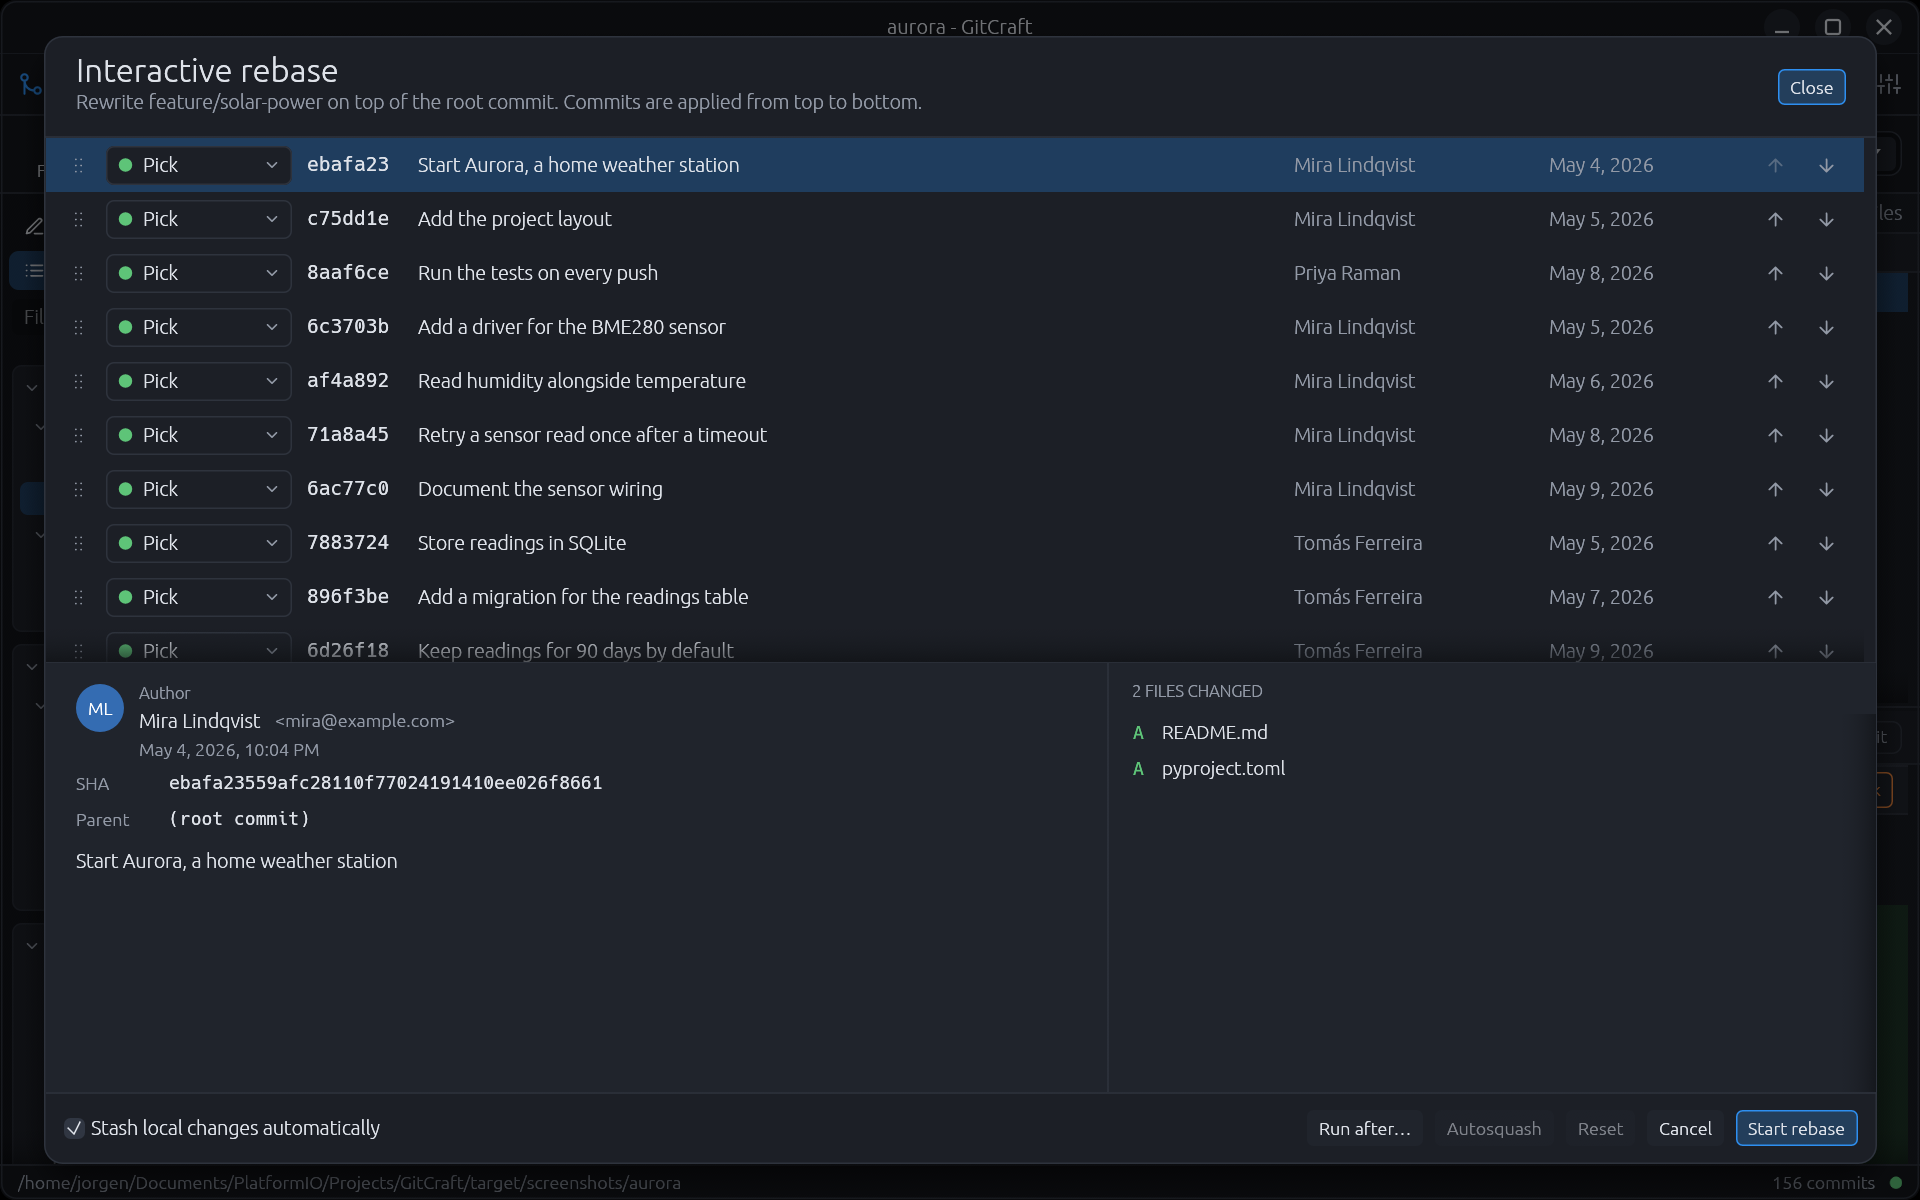
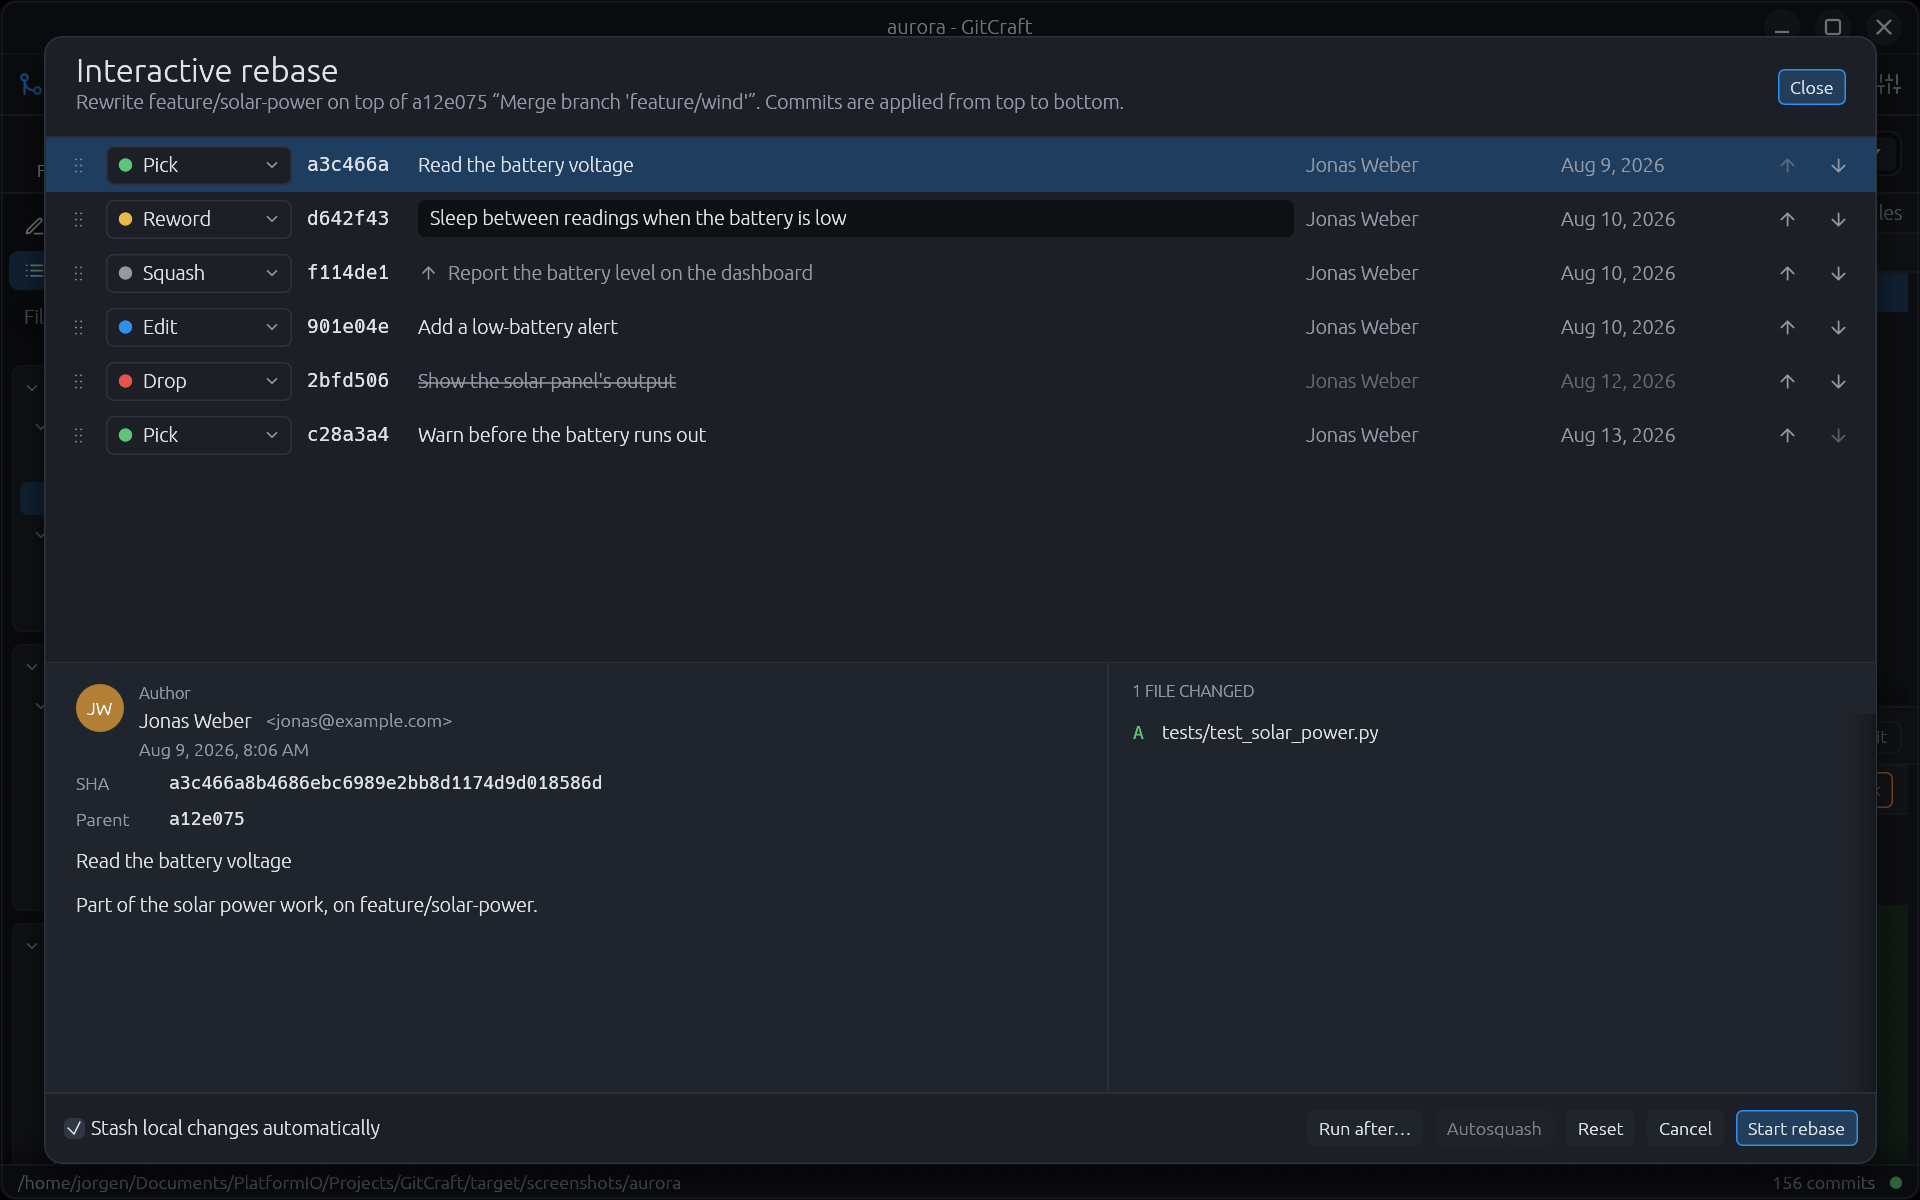
Add a script that takes the README screenshots
The interactive rebase picture had lost its mix of actions when it was taken
again, because it was set up by hand the first time. take-screenshots.py now
rebuilds the demo repository for each picture and starts GitCraft with the
theme, dialog and rebase plan that picture needs, so a rerun before a release
gives the same pictures. GITCRAFT_SHOT_REBASE_BASE and
GITCRAFT_SHOT_REBASE_ACTIONS let the shot mode set up the rebase editor.

diff --git a/docs/screenshots/take-screenshots.py b/docs/screenshots/take-screenshots.py
@@ -1,0 +1,175 @@
+#!/usr/bin/env python3
+"""Takes the README screenshots again, the same way every time.
+
+For each picture it builds Aurora afresh (make-demo-repo.py), starts GitCraft on it with a
+settings folder of its own, opens what the picture shows (GITCRAFT_SHOT_OPEN) and lets the app
+save its window (GITCRAFT_SHOT). The pictures land in docs/screenshots/.
+
+    python3 docs/screenshots/take-screenshots.py                  # build, then take them all
+    python3 docs/screenshots/take-screenshots.py history-dark     # only these
+    python3 docs/screenshots/take-screenshots.py --no-build --out /tmp/shots
+    python3 docs/screenshots/take-screenshots.py --list
+
+When the README gets a new picture, add it to SHOTS below (and GITCRAFT_SHOT_OPEN in gui.rs if
+it needs something opened), so the next run takes it the same way.
+
+The window opens at its default size (1280 x 800). The README's pictures are 1920 x 1200, so
+take them on a screen scaled to 150 %; the script warns when a picture comes out another size.
+Pillow, if installed, saves them as RGB without the alpha channel, which keeps them smaller.
+"""
+
+import argparse
+import os
+import shutil
+import subprocess
+import sys
+import struct
+
+ROOT = os.path.dirname(os.path.dirname(os.path.dirname(os.path.abspath(__file__))))
+HERE = os.path.join(ROOT, "docs", "screenshots")
+WORK = os.path.join(ROOT, "target", "screenshots")
+REPO = os.path.join(WORK, "aurora")
+EXPECTED_SIZE = (1920, 1200)
+
+# name: the file in docs/screenshots (without .png)
+# theme: "dark" or "light"
+# open: GITCRAFT_SHOT_OPEN, or None for the history as it opens
+# env: more environment for the app; "{base}" becomes the commit feature/solar-power started from
+SHOTS = [
+    {"name": "history-dark", "theme": "dark", "open": None},
+    {"name": "history-light", "theme": "light", "open": None},
+    {"name": "local-changes", "theme": "light", "open": "changes"},
+    {
+        "name": "interactive-rebase",
+        "theme": "dark",
+        "open": "rebase",
+        "env": {
+            # The six commits of feature/solar-power, with one of each action.
+            "GITCRAFT_SHOT_REBASE_BASE": "{base}",
+            "GITCRAFT_SHOT_REBASE_ACTIONS": "pick,reword,squash,edit,drop,pick",
+        },
+    },
+    {"name": "commit-menu", "theme": "dark", "open": "branch-menu"},
+    {"name": "settings", "theme": "dark", "open": "settings"},
+]
+
+
+def run(*args, **kwargs):
+    return subprocess.run(args, check=True, **kwargs)
+
+
+def git(*args):
+    return run("git", "-C", REPO, *args, capture_output=True, text=True).stdout.strip()
+
+
+def build():
+    print("Building the release binary …")
+    run("cargo", "build", "--release", "-p", "gitcraft-ui", cwd=ROOT)
+
+
+def binary():
+    name = "gitcraft.exe" if os.name == "nt" else "gitcraft"
+    path = os.path.join(ROOT, "target", "release", name)
+    if not os.path.exists(path):
+        sys.exit(f"{path} is missing: run without --no-build first.")
+    return path
+
+
+def make_repo():
+    run(sys.executable, os.path.join(HERE, "make-demo-repo.py"), REPO,
+        stdout=subprocess.DEVNULL)
+
+
+def png_size(path):
+    with open(path, "rb") as file:
+        head = file.read(24)
+    return struct.unpack(">II", head[16:24])
+
+
+def save(picture, target):
+    """Copies the picture into place, as RGB when Pillow is there."""
+    try:
+        from PIL import Image
+    except ImportError:
+        shutil.copyfile(picture, target)
+        return
+    Image.open(picture).convert("RGB").save(target, optimize=True)
+
+
+def take(shot, app, out):
+    make_repo()
+    base = git("merge-base", "HEAD", "main")
+    config = os.path.join(WORK, "config", shot["name"])
+    shutil.rmtree(config, ignore_errors=True)
+    os.makedirs(config)
+    with open(os.path.join(config, "config.toml"), "w", encoding="utf-8") as file:
+        file.write(f'[general]\nlanguage = "auto"\n\n[appearance]\ntheme = "{shot["theme"]}"\n')
+    raw = os.path.join(WORK, f"{shot['name']}.raw.png")
+    if os.path.exists(raw):
+        os.remove(raw)
+    env = dict(os.environ)
+    # Settings from the caller's shell must not change the pictures.
+    for name in ("GITCRAFT_SHOT_OPEN", "GITCRAFT_SHOT_REBASE_BASE",
+                 "GITCRAFT_SHOT_REBASE_ACTIONS", "GITCRAFT_SYSTEM_FRAME", "CRAFT_TITLEBAR"):
+        env.pop(name, None)
+    env.update({
+        "GITCRAFT_CONFIG_DIR": config,
+        "GITCRAFT_SHOT": raw,
+        "GITCRAFT_TITLEBAR": "app",
+        "LANG": "en_US.UTF-8",
+        "LC_ALL": "en_US.UTF-8",
+        "LANGUAGE": "en",
+    })
+    if shot.get("open"):
+        env["GITCRAFT_SHOT_OPEN"] = shot["open"]
+    for name, value in shot.get("env", {}).items():
+        env[name] = value.replace("{base}", base)
+    try:
+        subprocess.run([app, REPO], env=env, timeout=90, check=False,
+                       stdout=subprocess.DEVNULL, stderr=subprocess.DEVNULL)
+    except subprocess.TimeoutExpired:
+        print(f"  {shot['name']}: the app didn't finish within 90 s")
+        return False
+    if not os.path.exists(raw):
+        print(f"  {shot['name']}: no picture was saved")
+        return False
+    target = os.path.join(out, f"{shot['name']}.png")
+    save(raw, target)
+    os.remove(raw)
+    size = png_size(target)
+    note = "" if size == EXPECTED_SIZE else (
+        f"  (expected {EXPECTED_SIZE[0]} x {EXPECTED_SIZE[1]}: is the screen scaled to 150 %?)")
+    print(f"  {os.path.relpath(target, ROOT)}  {size[0]} x {size[1]}{note}")
+    return True
+
+
+def main():
+    parser = argparse.ArgumentParser(description=__doc__.splitlines()[0])
+    parser.add_argument("names", nargs="*", help="only take these pictures")
+    parser.add_argument("--no-build", action="store_true", help="use the existing release binary")
+    parser.add_argument("--out", default=HERE, help="where to put the pictures")
+    parser.add_argument("--list", action="store_true", help="list the pictures and exit")
+    args = parser.parse_args()
+
+    if args.list:
+        for shot in SHOTS:
+            print(f"{shot['name']:20} {shot['theme']:6} {shot.get('open') or '-'}")
+        return
+    known = {shot["name"] for shot in SHOTS}
+    unknown = [name for name in args.names if name not in known]
+    if unknown:
+        sys.exit(f"Unknown picture: {', '.join(unknown)}. Known: {', '.join(sorted(known))}")
+    chosen = [shot for shot in SHOTS if not args.names or shot["name"] in args.names]
+
+    if not args.no_build:
+        build()
+    app = binary()
+    os.makedirs(args.out, exist_ok=True)
+    print("Taking pictures …")
+    failed = [shot["name"] for shot in chosen if not take(shot, app, args.out)]
+    if failed:
+        sys.exit(f"Failed: {', '.join(failed)}")
+
+
+if __name__ == "__main__":
+    main()

diff --git a/crates/gitcraft-ui/src/gui.rs b/crates/gitcraft-ui/src/gui.rs
@@ -39,6 +39,26 @@ struct Shot {
     file: std::path::PathBuf,
     frames: u32,
     asked: bool,
+    /// `GITCRAFT_SHOT_REBASE_ACTIONS`: the action of each step, set once the rebase editor has
+    /// loaded its commits.
+    rebase_plan: Option<Vec<&'static str>>,
+}
+
+/// `GITCRAFT_SHOT_REBASE_ACTIONS=pick,reword,squash,…`: unknown names are left as pick.
+fn shot_rebase_plan() -> Option<Vec<&'static str>> {
+    let list = std::env::var("GITCRAFT_SHOT_REBASE_ACTIONS").ok()?;
+    let actions = ["pick", "reword", "edit", "squash", "fixup", "drop"];
+    Some(
+        list.split(',')
+            .map(|name| {
+                let name = name.trim();
+                actions
+                    .into_iter()
+                    .find(|each| *each == name)
+                    .unwrap_or("pick")
+            })
+            .collect(),
+    )
 }
 
 #[derive(Default, PartialEq)]
@@ -91,6 +111,7 @@ impl Shell {
                 file: file.into(),
                 frames: 0,
                 asked: false,
+                rebase_plan: shot_rebase_plan(),
             }),
         };
         shell.dispatch(task);
@@ -290,7 +311,12 @@ impl Shell {
                 Some("lfs") => Message::OpenLfsLocks,
                 Some("about") => Message::OpenAbout,
                 Some("clone") => Message::Action(crate::actions::Action::Clone),
-                Some("rebase") => Message::OpenRebase(None),
+                // GITCRAFT_SHOT_REBASE_BASE=<sha> rebases onto that commit instead of the root.
+                Some("rebase") => Message::OpenRebase(
+                    std::env::var("GITCRAFT_SHOT_REBASE_BASE")
+                        .ok()
+                        .filter(|sha| !sha.is_empty()),
+                ),
                 Some("delete") => Message::Action(crate::actions::Action::DeleteBranch(
                     "rust-migration".to_owned(),
                 )),
@@ -304,8 +330,29 @@ impl Shell {
             self.handle(message);
             return;
         }
+        // Once the rebase editor has its commits, give them the planned actions and highlight
+        // the first one again.
+        if shot.rebase_plan.is_some()
+            && let Some(crate::app::Overlay::Rebase(state)) = &self.app.overlay
+            && !state.loading
+            && !state.steps.is_empty()
+        {
+            let plan = shot.rebase_plan.take().unwrap_or_default();
+            for (index, action) in plan.into_iter().enumerate() {
+                self.handle(Message::RebaseSetAction(index, action));
+            }
+            self.handle(Message::RebaseFocus(0));
+            ctx.request_repaint();
+            return;
+        }
         ctx.request_repaint_after(Duration::from_millis(100));
-        if shot.frames > 60 && !shot.asked && self.app.current().is_some_and(|tab| !tab.loading) {
+        let planned = shot.rebase_plan.is_none()
+            || std::env::var("GITCRAFT_SHOT_OPEN").as_deref() != Ok("rebase");
+        if shot.frames > 60
+            && planned
+            && !shot.asked
+            && self.app.current().is_some_and(|tab| !tab.loading)
+        {
             shot.asked = true;
             let (file, close) = (shot.file.clone(), ctx.clone());
             ctx.request_screenshot(move |image| {

diff --git a/AGENTS.md b/AGENTS.md
@@ -156,13 +156,19 @@ cd crates/gitcraft-ui && cargo packager --release --formats deb,appimage   # int
   loaded, then quit (handy for looking at the UI without a screenshot tool). The mouse is ignored meanwhile,
   so nothing is hovered in the picture. The README's screenshots are of the made-up repository
   `docs/screenshots/make-demo-repo.py` builds (`target/screenshots/aurora`), never of a real one.
+- Take the README's screenshots with `python3 docs/screenshots/take-screenshots.py` (on a screen scaled to
+  150 %, so they come out 1920 x 1200): it rebuilds Aurora for each picture and starts the app with the
+  settings, theme and `GITCRAFT_SHOT_OPEN` the picture needs. Rerun it when the UI changes before a
+  release. A new README picture, or a change to what one shows, goes into its `SHOTS` list, so the next
+  run takes it the same way.
 - craft-window decides before the window opens who draws the title bar (`window::decide`); the app draws
   it in `views/frame.rs`. `GITCRAFT_TITLEBAR=app|system` (or `CRAFT_TITLEBAR`) overrides the setting, and
   `GITCRAFT_SYSTEM_FRAME=1` still asks for the system's frame.
 - The window's size and place are saved in `window.json` a moment after they stop changing, and on exit.
 - `GITCRAFT_SHOT_OPEN=settings` (and `menu`, `pull`, `changes`, `split`, `rebase`, `delete`, `checkout`,
   `discards`, `clone`, `lfs`, `about`, `branch-menu`, or `settings:git` and the other settings pages) opens that
-  before the picture is taken. Set `language = "de"` under `[general]` in the test folder's `config.toml`
+  before the picture is taken. With `rebase`, `GITCRAFT_SHOT_REBASE_BASE=<sha>` rebases onto that commit and
+  `GITCRAFT_SHOT_REBASE_ACTIONS=pick,reword,squash,…` sets each step's action. Set `language = "de"` under `[general]` in the test folder's `config.toml`
   to look at a translated window.
 - Tests run side by side in one process, and the interface language is global: don't switch it to another
   language in a test (look up with `I18N.t(lang, …)` instead, as `i18n.rs` does).

diff --git a/README.md b/README.md
@@ -307,7 +307,8 @@ The screenshots above are of Aurora, a made-up repository that
 [`docs/screenshots/make-demo-repo.py`](docs/screenshots/make-demo-repo.py) builds: about 160 commits by
 invented authors, with merges, release tags, open branches and a remote. GitCraft saves a picture of its
 window when started with `GITCRAFT_SHOT=<file.png>` (and `GITCRAFT_SHOT_OPEN=` for a dialog, see
-AGENTS.md).
+AGENTS.md); [`docs/screenshots/take-screenshots.py`](docs/screenshots/take-screenshots.py) takes all of
+the pictures above that way.
 
 <details>
 <summary><b>Architecture</b></summary>
